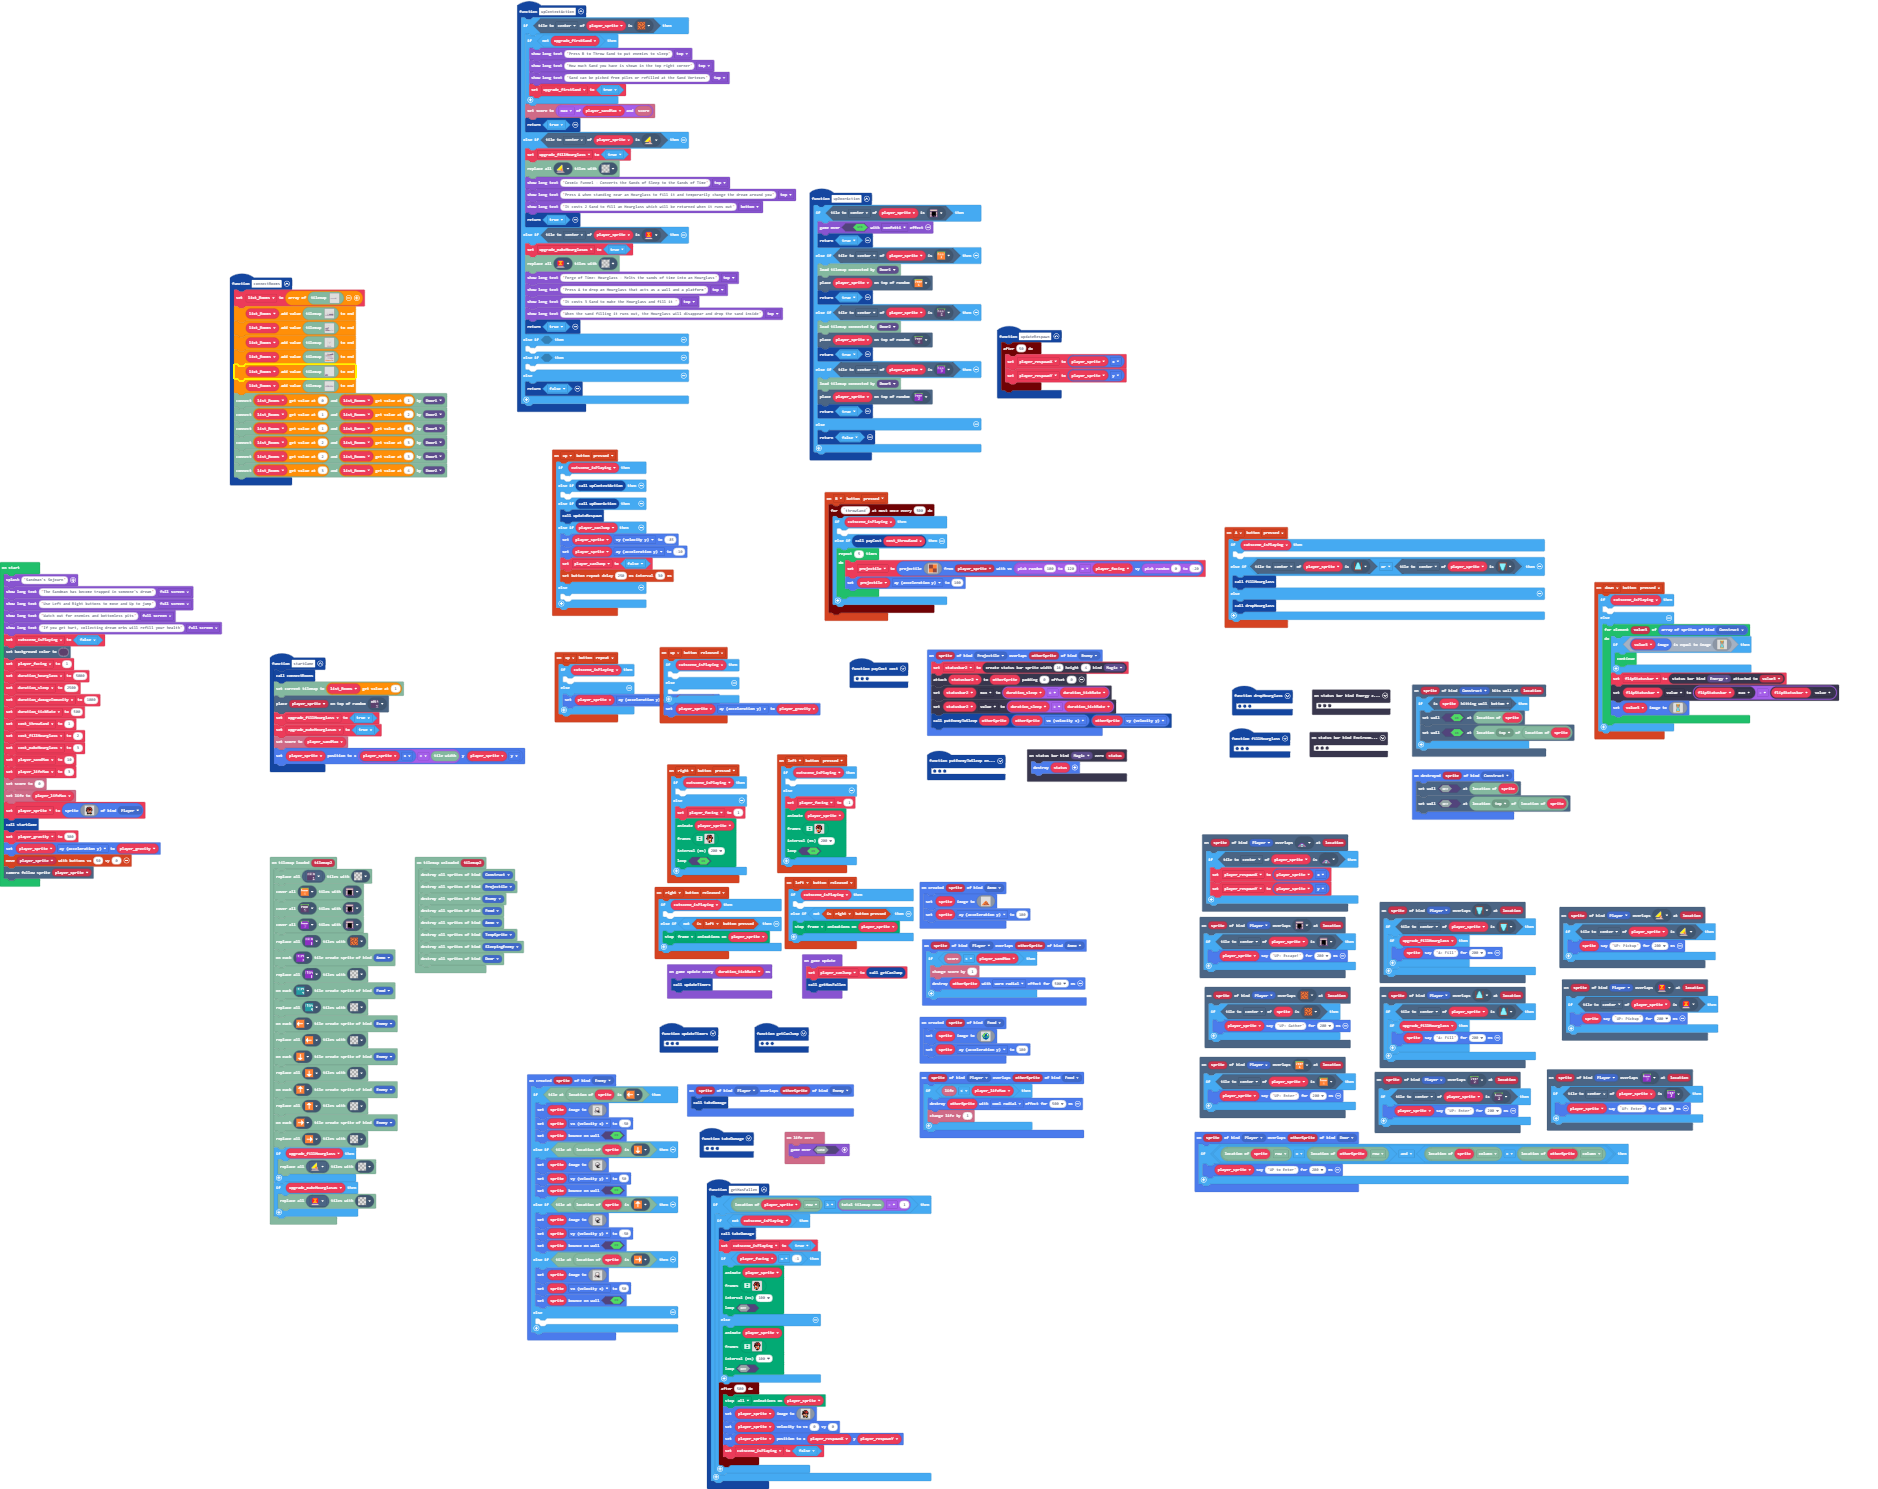
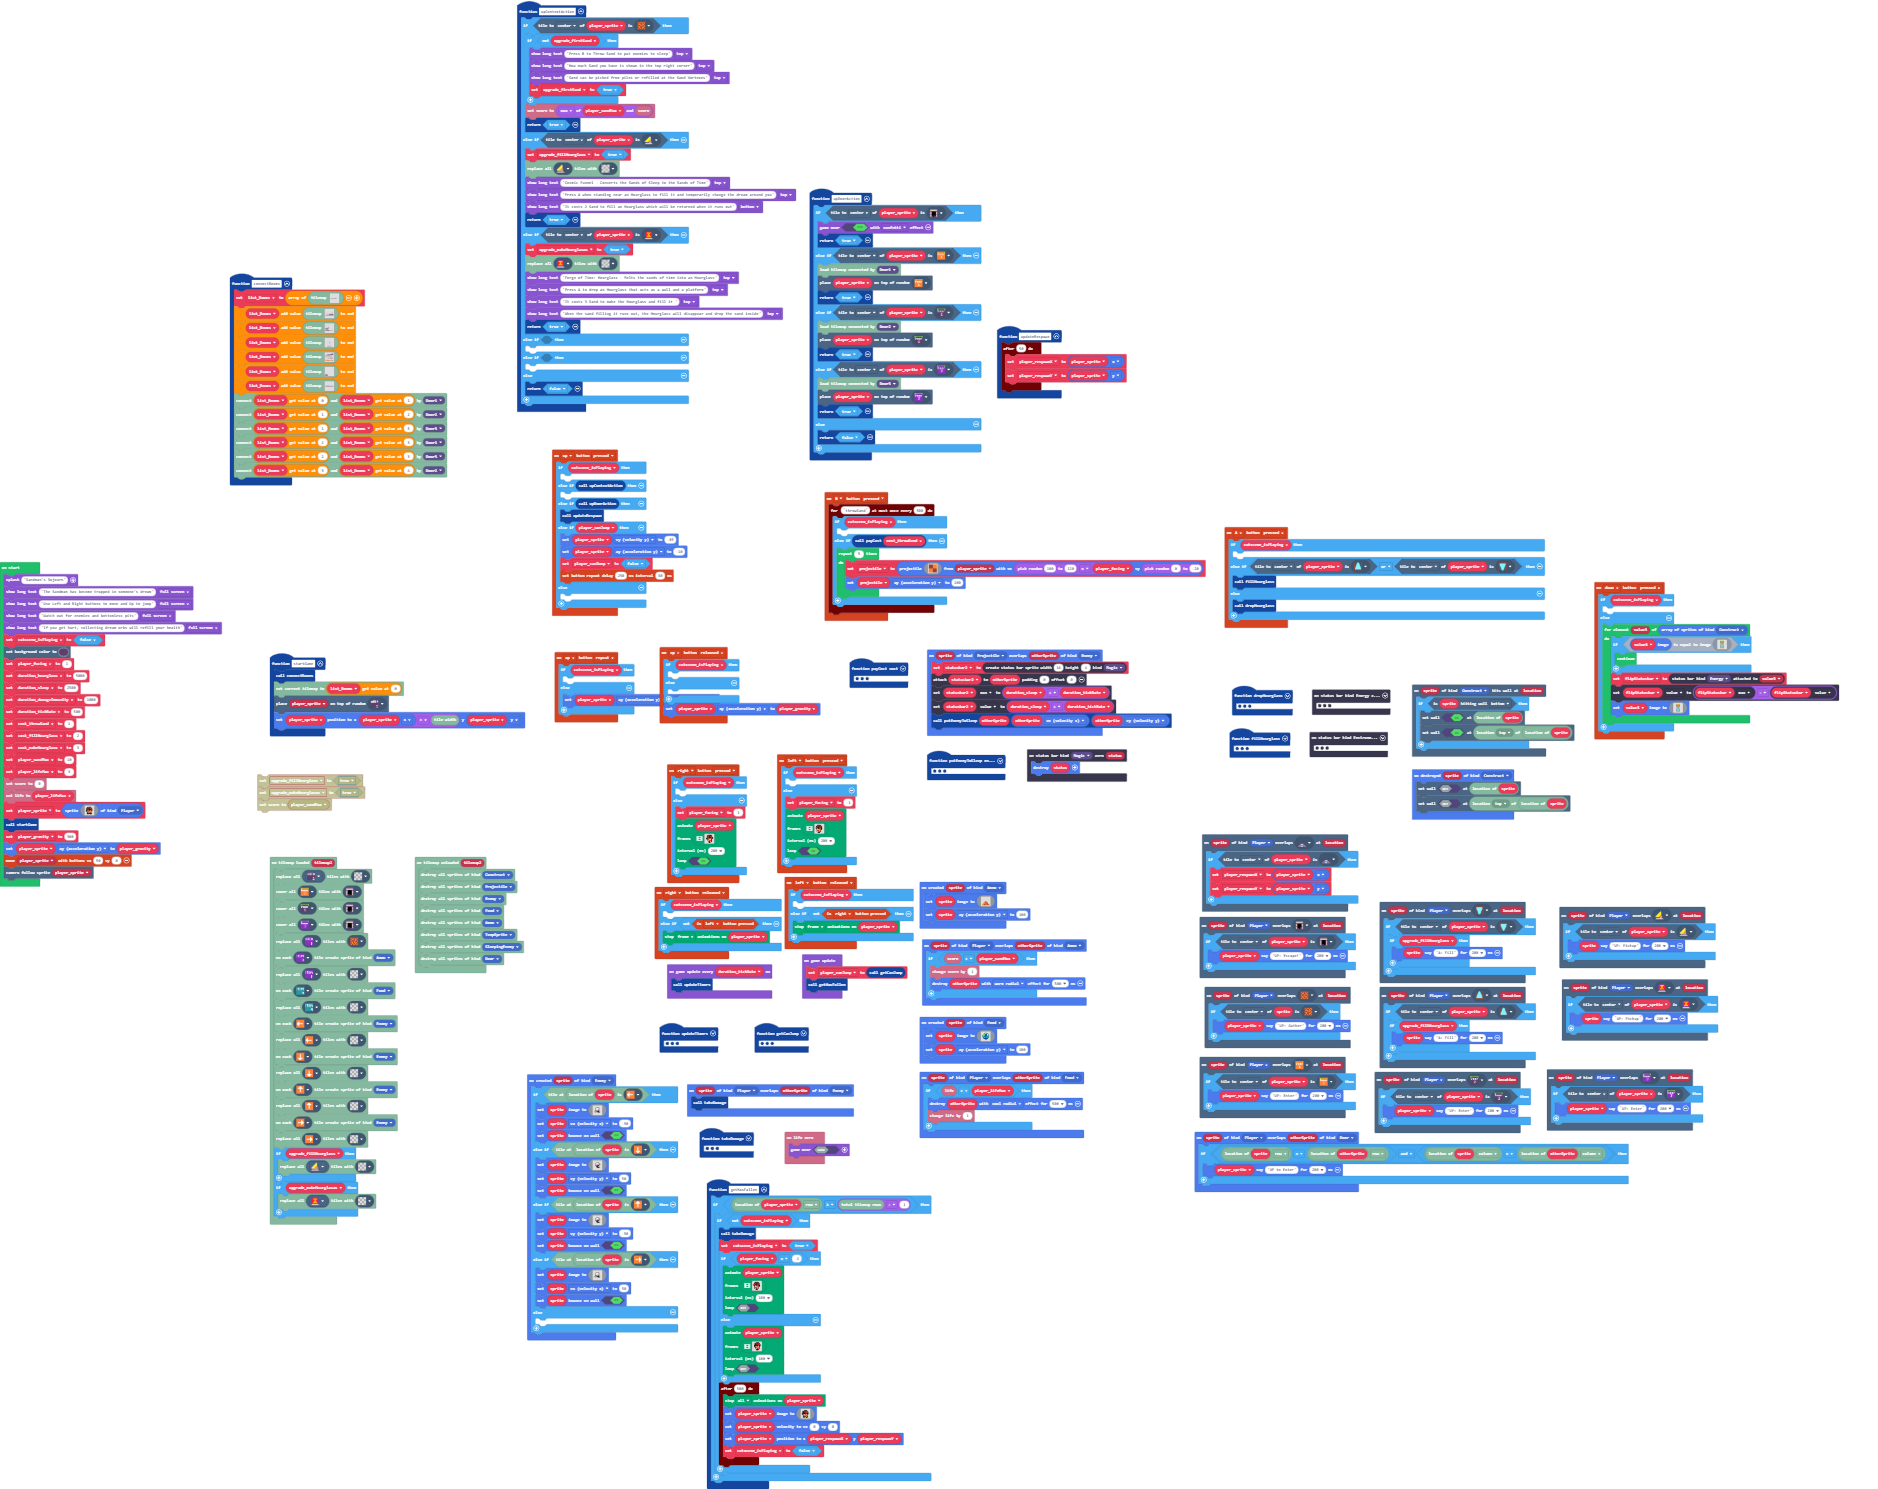
clear test init

Changed region(s): [[0.1235, 0.4634, 0.278, 0.5561]]

diff --git a/main.ts b/main.ts
@@ -141,11 +141,8 @@ statusbars.onZero(StatusBarKind.Environment, function (status) {
 })
 function startGame () {
     connectRooms()
-    tiles.loadMap(list_Rooms[1])
+    tiles.loadMap(list_Rooms[0])
     tiles.placeOnRandomTile(player_sprite, tiles.util.object7)
-    upgrade_fillHourglass = true
-    upgrade_makeHourglasas = true
-    info.setScore(player_sandMax)
     player_sprite.setPosition(player_sprite.x + tiles.tileWidth(), player_sprite.y)
 }
 function connectRooms () {
@@ -587,9 +584,9 @@ let statusbar: StatusBarSprite = null
 let hourglass: Sprite = null
 let status_bar_list: StatusBarSprite[] = []
 let flipStatusbar: StatusBarSprite = null
+let upgrade_makeHourglasas = false
 let statusbar3: StatusBarSprite = null
 let tempSprite: Sprite = null
-let upgrade_makeHourglasas = false
 let list_Rooms: tiles.WorldMap[] = []
 let list: tiles.Location[] = []
 let sand: Sprite = null
